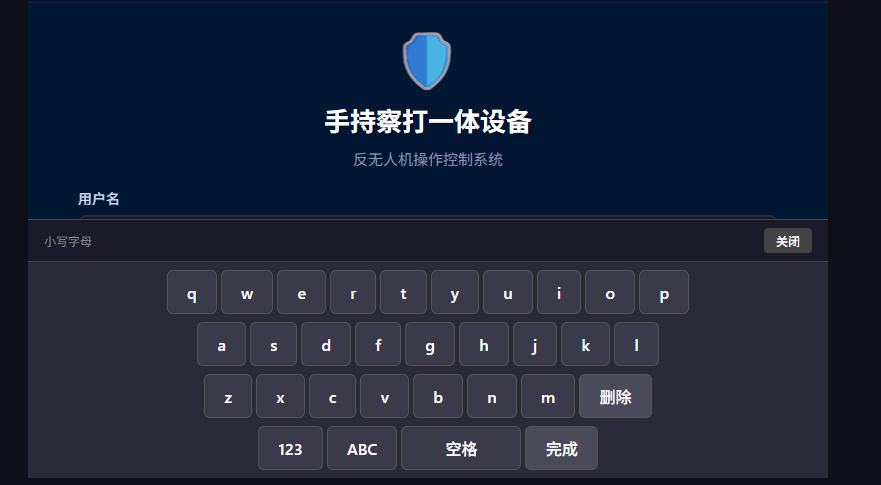
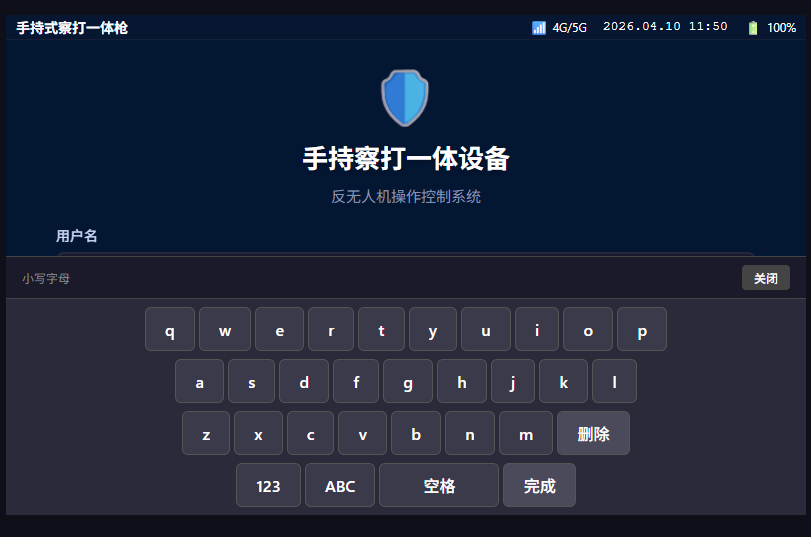
feat: 通过动态padding实现页面随键盘同步移动

diff --git a/frontend/src/views/Login.vue b/frontend/src/views/Login.vue
@@ -1,7 +1,7 @@
 <template>
-  <PageTemplate>
+  <PageTemplate :keyboard-height="isKeyboardVisible ? 280 : 0">
     <!-- 登录表单区 -->
-    <div class="login-content" :class="{ 'keyboard-open': isKeyboardOpen }">
+    <div class="login-content">
       <div class="logo-area">
         <div class="logo-icon">🛡</div>
         <h1 class="system-title">手持察打一体设备</h1>
@@ -78,7 +78,6 @@
       v-model:visible="isKeyboardVisible"
       :input-ref="currentInputRef"
       @close="handleKeyboardClose"
-      @open="isKeyboardOpen = true"
     />
   </PageTemplate>
 </template>
@@ -105,7 +104,6 @@ const loginForm = ref({
 const showPassword = ref(false);
 const loading = ref(false);
 const errorMessage = ref('');
-const isKeyboardOpen = ref(false);
 const isKeyboardVisible = ref(false);
 const currentInputRef = ref<HTMLInputElement | null>(null);
 
@@ -123,7 +121,6 @@ const handleInputFocus = (inputRef: HTMLInputElement | null) => {
   if (inputRef) {
     currentInputRef.value = inputRef;
     isKeyboardVisible.value = true;
-    isKeyboardOpen.value = true;
   }
 };
 
@@ -132,7 +129,6 @@ const handleInputFocus = (inputRef: HTMLInputElement | null) => {
  */
 const handleKeyboardClose = () => {
   isKeyboardVisible.value = false;
-  isKeyboardOpen.value = false;
 };
 
 /**
@@ -251,13 +247,6 @@ onUnmounted(() => {
   flex-direction: column;
   justify-content: center;
   overflow: hidden;
-  transition: padding-bottom 0.3s ease;
-}
-
-/* 键盘打开时的布局调整 */
-.login-content.keyboard-open {
-  justify-content: flex-start;
-  padding-top: 20px;
 }
 
 .logo-area {

diff --git a/frontend/src/components/PageTemplate.vue b/frontend/src/components/PageTemplate.vue
@@ -1,6 +1,6 @@
 <template>
   <div class="page-wrapper">
-    <div class="page-container">
+    <div class="page-container" :style="{ paddingBottom: keyboardHeight + 'px' }">
       <!-- 顶部状态栏 -->
       <div class="status-bar">
         <div class="device-name">{{ deviceName }}</div>
@@ -34,12 +34,14 @@ interface Props {
   deviceName?: string;
   networkType?: string;
   batteryLevel?: number;
+  keyboardHeight?: number;
 }
 
 withDefaults(defineProps<Props>(), {
   deviceName: '手持式察打一体枪',
   networkType: '4G/5G',
-  batteryLevel: 100
+  batteryLevel: 100,
+  keyboardHeight: 0
 });
 
 const currentTime = ref('');
